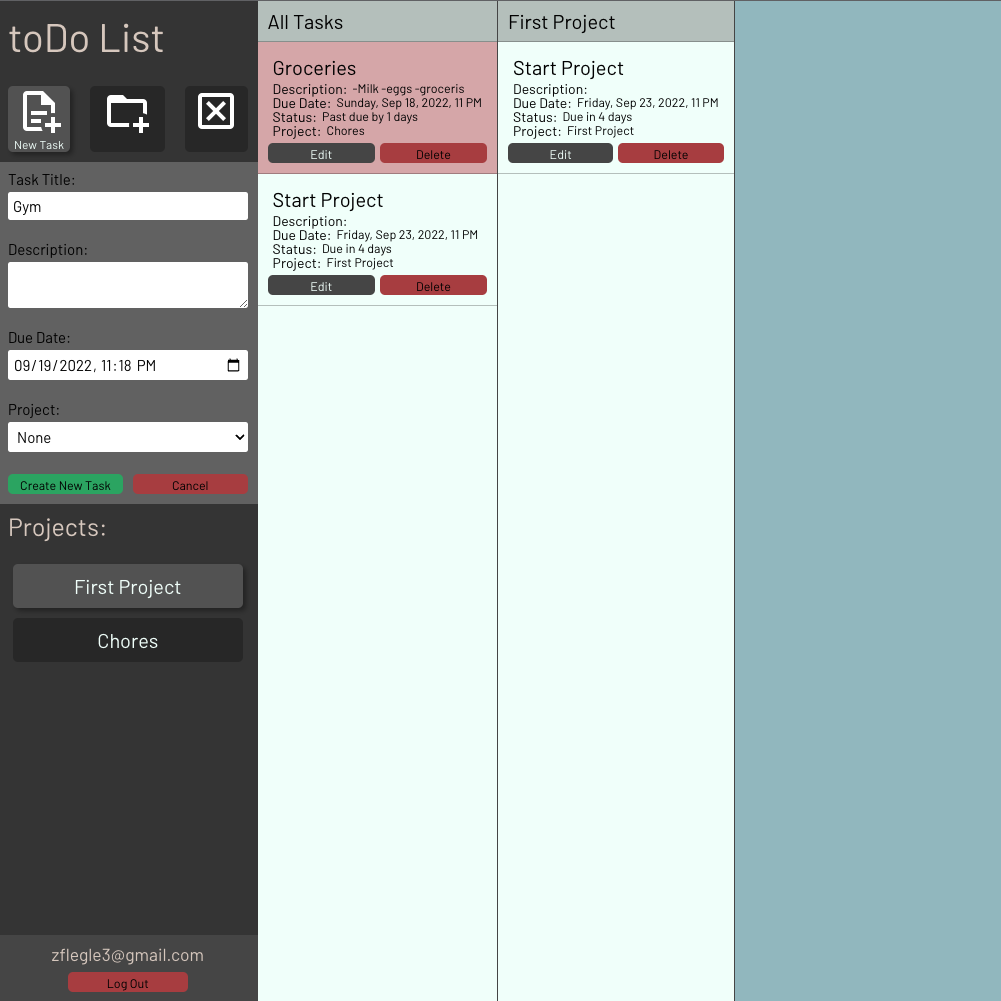
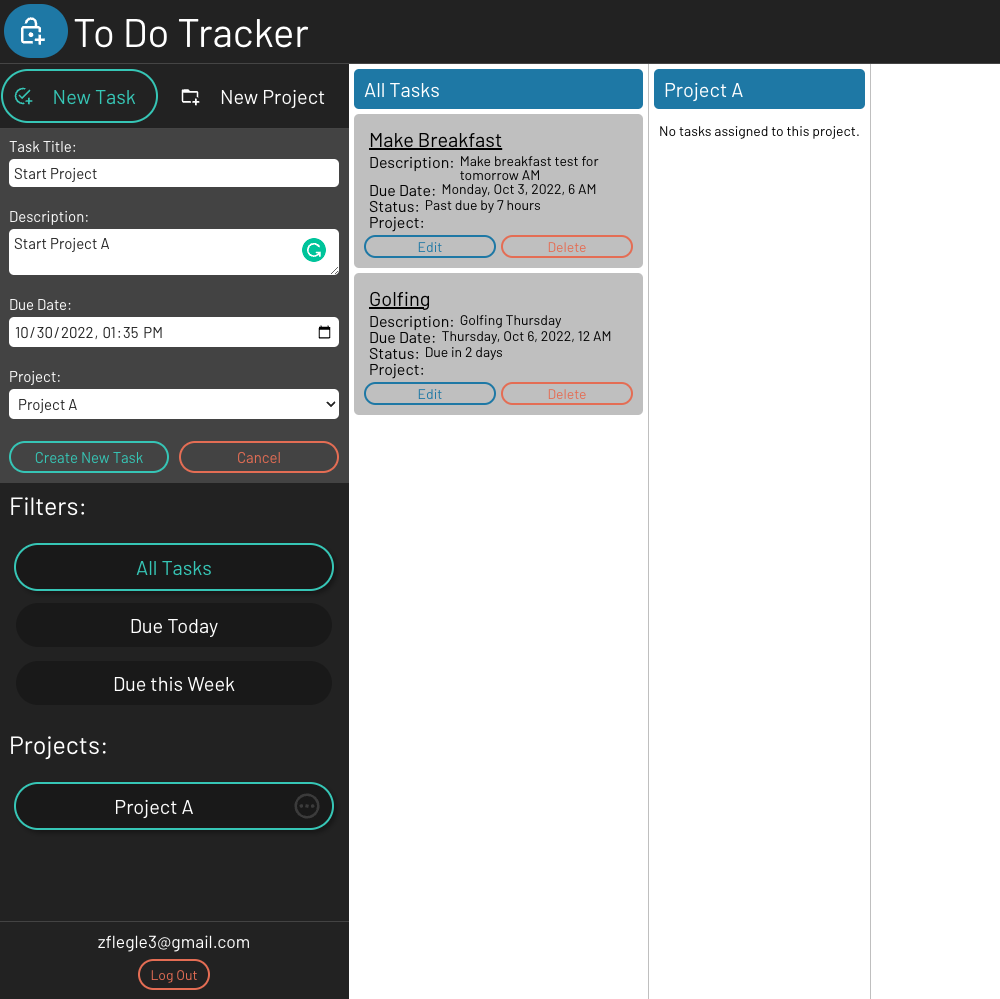
Added conditional styling for task status, updated misc styling errors

diff --git a/src/components/Tab.js b/src/components/Tab.js
@@ -25,7 +25,7 @@ function Tab(props) {
                 <TaskItem key={uuidv4()} taskId={task.id} title={task.title} date={task.date} desc={task.desc} status={task.status} proj={task.proj} user={props.user} setUserData={props.setUserData} db={props.db}/>
                 );
             } else {
-                tasksAll = <p >No tasks available.</p>
+                tasksAll = <p className="no-tasks">No tasks available.</p>
             };
             break;
         case "today":
@@ -36,18 +36,18 @@ function Tab(props) {
                 <TaskItem key={uuidv4()} taskId={task.id} title={task.title} date={task.date} desc={task.desc} status={task.status} proj={task.proj} user={props.user} setUserData={props.setUserData} db={props.db}/>
                 );
             } else {
-                tasksAll = <p >No tasks available.</p>
+                tasksAll = <p className="no-tasks">No tasks due today.</p>
             };
             break;
         case "week":
-            tabTitle= "Due This Today";
+            tabTitle= "Due This Week";
             let weekTasks = props.user.tasks.filter(task => 86400000*7 > ((new Date(task.date)) - todayDate) && ((new Date(task.date)) - todayDate)  > 0);
             if (weekTasks.length > 0) {
                 tasksAll = weekTasks.map((task) =>
                 <TaskItem key={uuidv4()} taskId={task.id} title={task.title} date={task.date} desc={task.desc} status={task.status} proj={task.proj} user={props.user} setUserData={props.setUserData} db={props.db}/>
                 );
             } else {
-                tasksAll = <p >No tasks available.</p>
+                tasksAll = <p className="no-tasks">No tasks due this week.</p>
             };
             break;
         case "proj":

diff --git a/src/styles/styles.scss b/src/styles/styles.scss
@@ -7,6 +7,8 @@ $bgSubB: #454545;
 
 $bgSelect: rgba(255,255,255,0.15);
 $bgHlight: rgba(0, 0, 0, 0.25);
+$bgComp: rgba(22, 117, 10, 0.25);
+$bgPast: rgba(126, 14, 14, 0.25);
 
 $textMainLt: #ffffff;
 $textMainDk: #222222;
@@ -14,6 +16,7 @@ $miscA: #2779a7;
 $miscB: #49c5b6;
 $miscC: #df6c4f;
 $errRed: rgb(158, 0, 0);
+
 
 $fontL: 4rem;
 $fontML: 3rem;
@@ -526,6 +529,7 @@ $radiusRound: 10rem;
     display: flex;
     flex-direction: row;
     overflow-x: scroll;
+    
 
     .proj-tab {
         border-right: solid 1px $bgHlight;
@@ -540,6 +544,14 @@ $radiusRound: 10rem;
             padding: 1rem;
             font-size: $fontM;
         }
+
+        .task-item.complete {
+            background-color: $bgComp;
+        } 
+
+        .task-item.past-due {
+            background-color: $bgPast;
+        } 
 
         .task-item {
             display: flex;

diff --git a/src/components/Login.js b/src/components/Login.js
@@ -57,7 +57,7 @@ function Login(props) {
 
     return (
         <div className={"log-in"}>
-            <p>toDo List</p>
+            <p>toDo Tracker</p>
             <button onClick={signInWithGoogle}>
                 <GoogleSvg />
                 <p> Sign In With Google </p>

diff --git a/src/components/Header.js b/src/components/Header.js
@@ -17,7 +17,7 @@ function Header (props) {
                     <p>Close Nav</p>
                 </button>
 
-                <p>To Do Tracker</p>
+                <p>toDo Tracker</p>
             </div>
         );
     } else {
